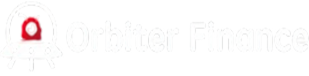
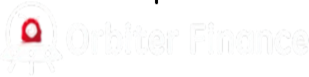
fix

Changed region(s): [[0.0583, 0.2105, 0.1456, 0.5789], [0.4951, 0.0, 0.5243, 0.0789]]

diff --git a/styles/styles.scss b/styles/styles.scss
@@ -407,7 +407,7 @@ section{
                         padding: 0 2rem;
                         img {
                             width: 100%;
-                            height: 100%;
+                            height: auto;
                             object-fit: contain;
                         }
                     }

diff --git a/styles/styles.css b/styles/styles.css
@@ -425,7 +425,7 @@ section {
 }
 #section-profession .profession .profession-container .slider .list .item img {
   width: 100%;
-  height: 100%;
+  height: auto;
   -o-object-fit: contain;
      object-fit: contain;
 }
